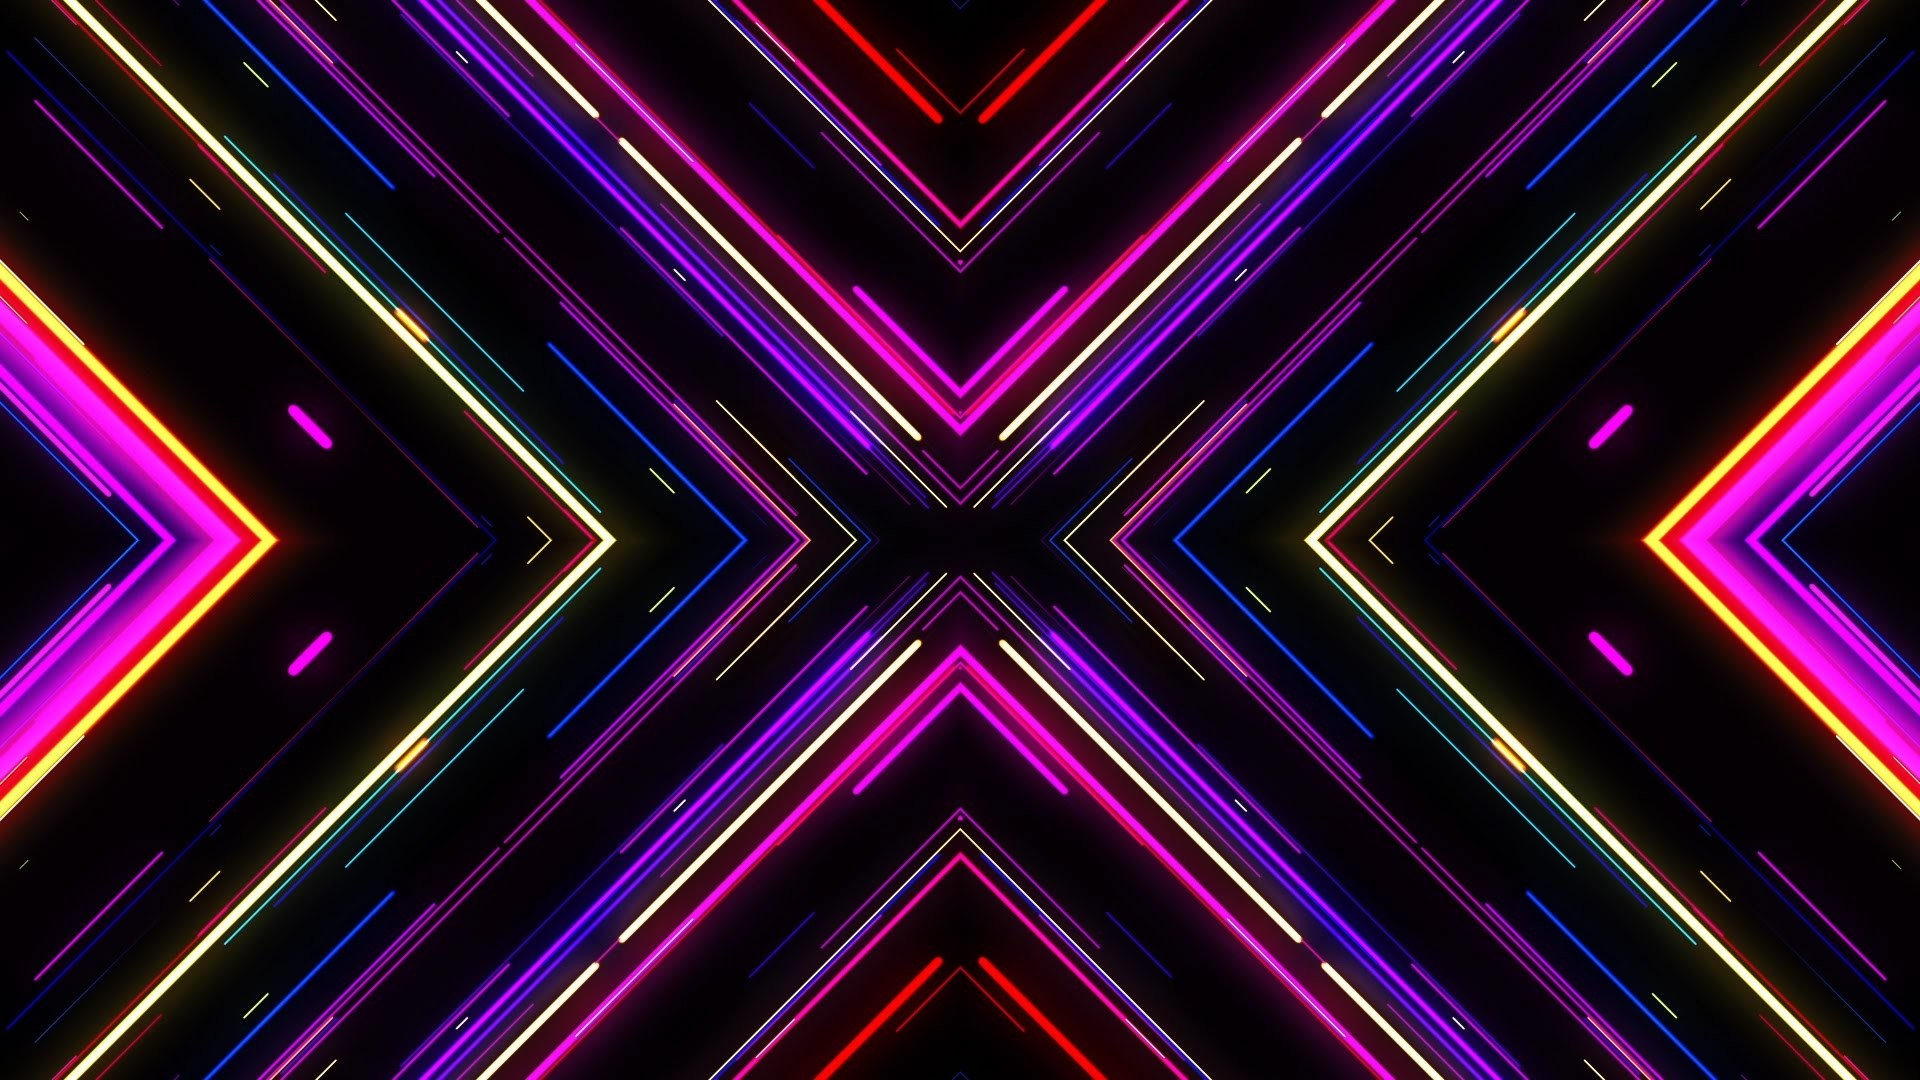
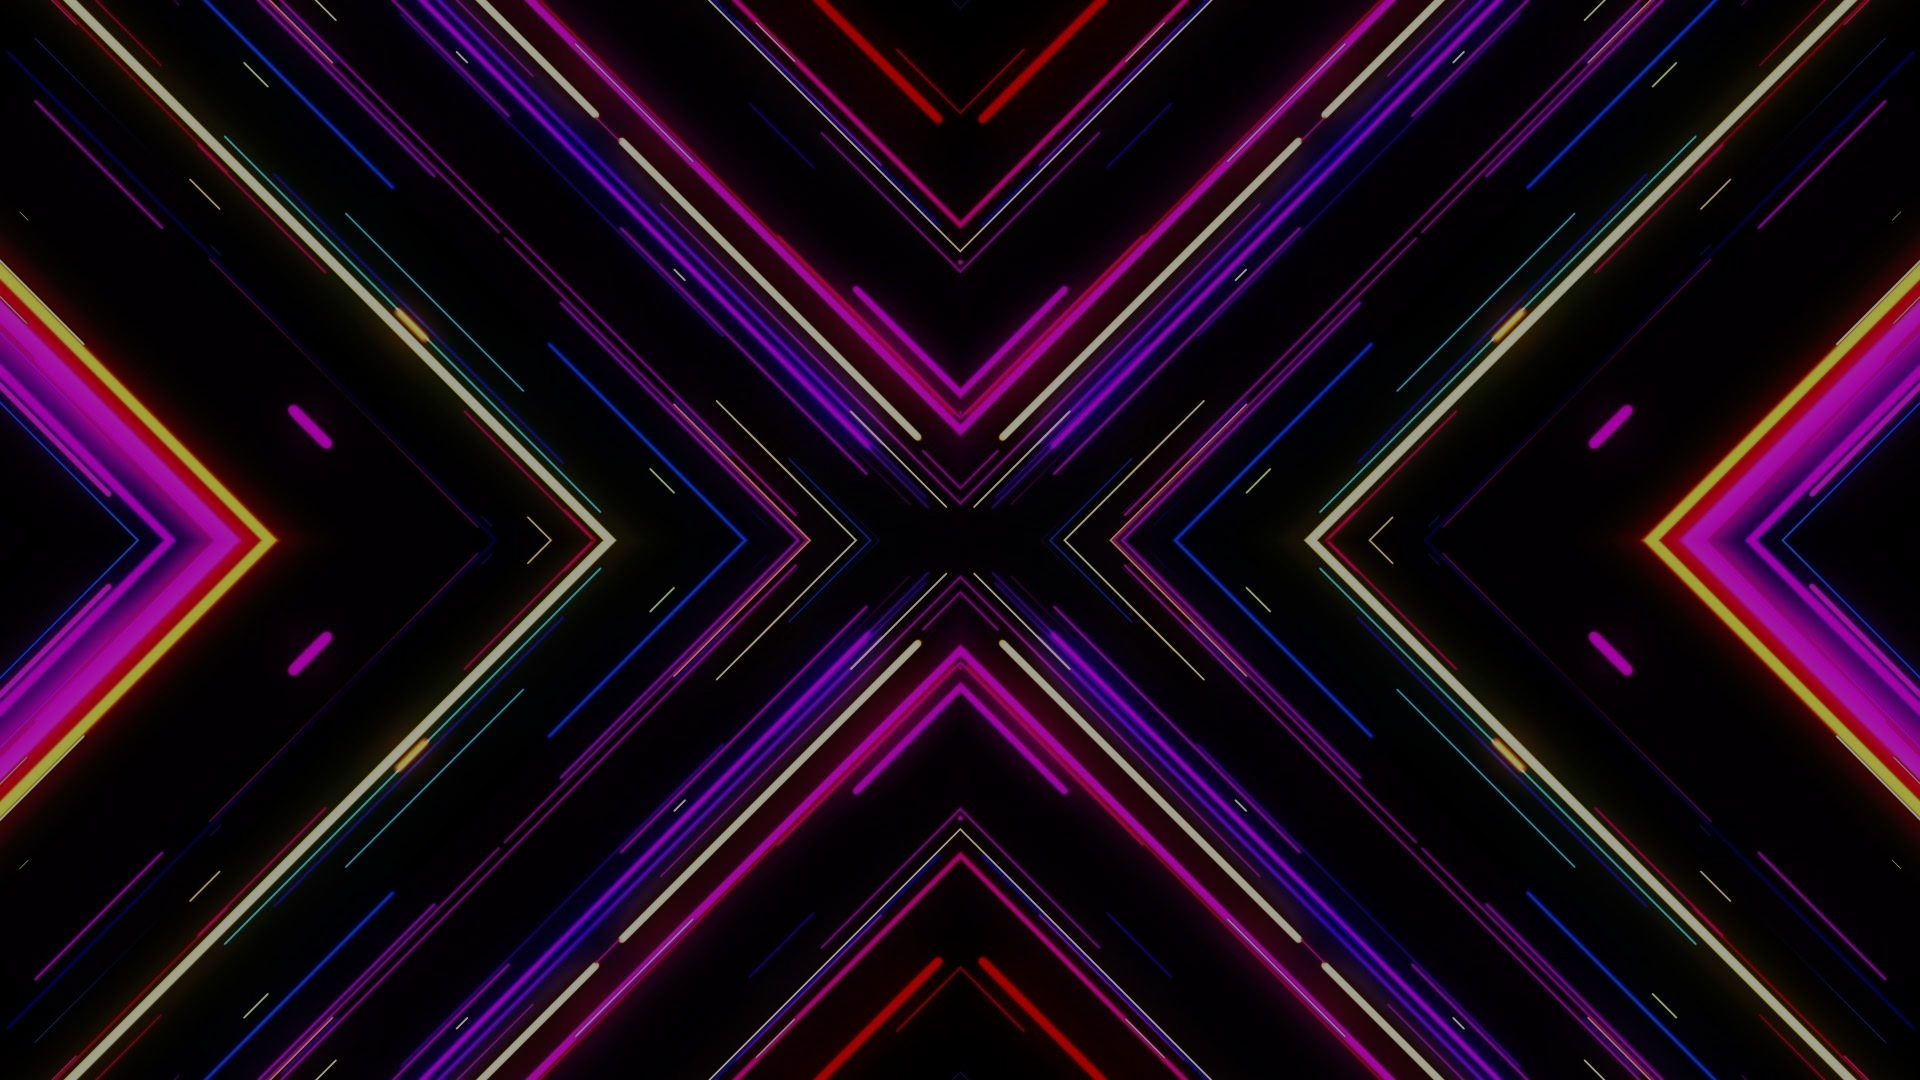
Reverted the background.

diff --git a/index.html b/index.html
@@ -89,7 +89,7 @@
 	<!-- Home -->
 
 	<div class="home" id="home">
-		<div class="background_image" style="background-image:url(images/neon.jpg)"></div>
+		<div class="background_image" style="background-image:url(images/index.jpg)"></div>
 		<div class="overlay"></div><div id="particles-js"></div>
 		<div class="home_container">
 			<div class="container">
@@ -104,7 +104,7 @@
 									</div>
 								</a>
 							</div>
-							<div class="home_title" style="margin-left:-110px;text-shadow: 2px 2px 4px black"><span style="text-shadow: 2px 2px 4px black; color:red">Etch</span>New</div>
+							<div class="home_title" style="margin-left:-110px"><span style="color:red">Etch</span>New</div>
                             <div id="loader" class="loader_on_pc">
 									<div class="circle1" style="-webkit-transform: rotate(30deg);-ms-transform: rotate(30deg); transform: rotate(30deg);"></div>
 									<div class="circle2" style="-webkit-transform: rotate(-30deg);-ms-transform: rotate(-30deg); transform: rotate(-30deg);"></div>
